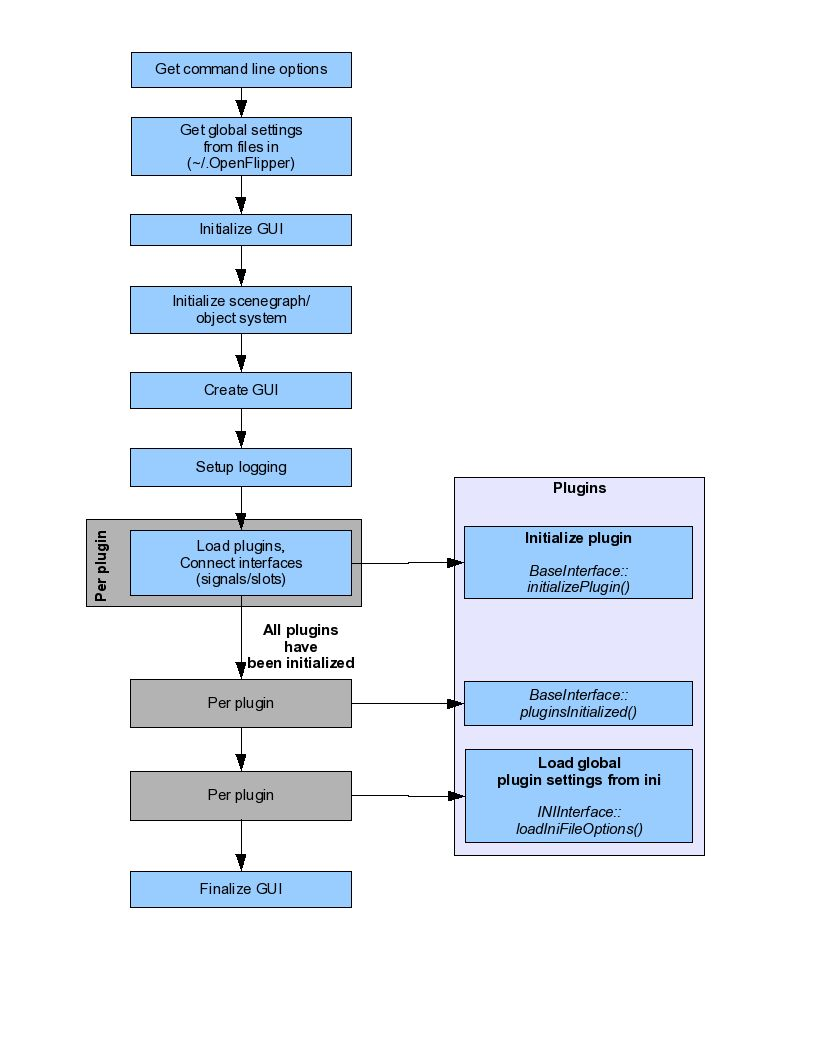
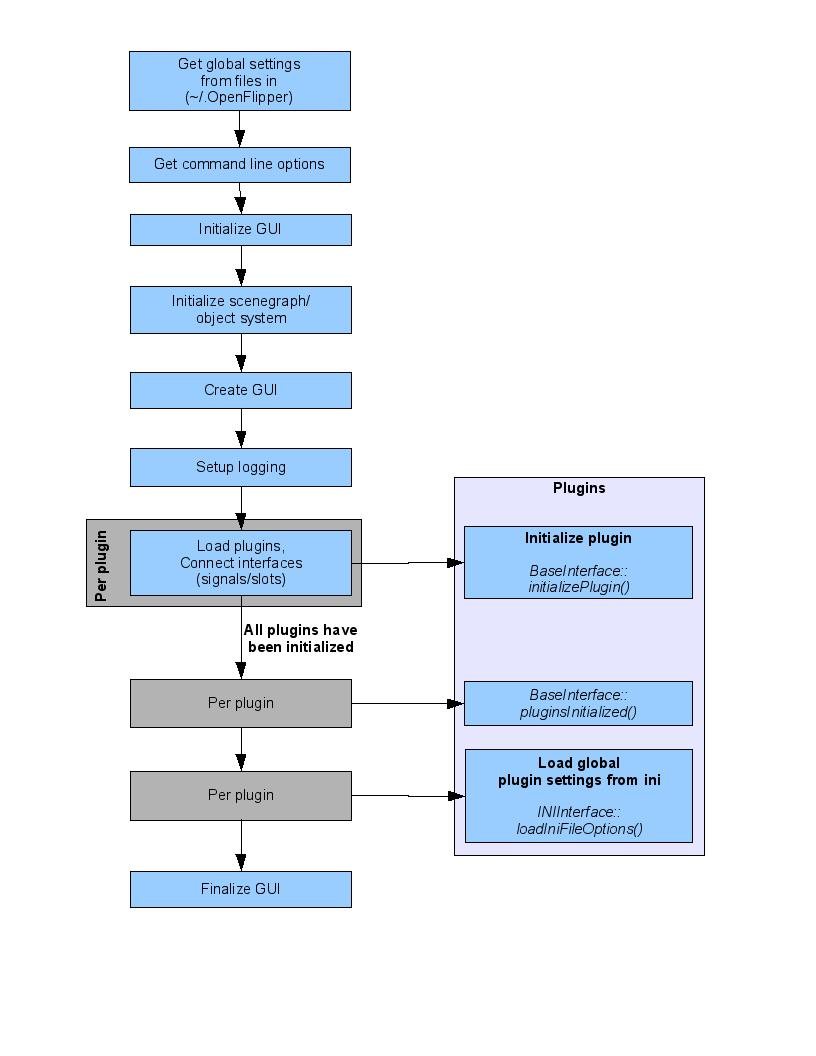
improved ini loading

diff --git a/OpenFlipper/Core/ParseIni.cc b/OpenFlipper/Core/ParseIni.cc
@@ -271,6 +271,46 @@ void Core::readApplicationOptions(INIFile& _ini) {
       OpenFlipper::Options::pickingRenderMode(pickingRenderMode);
 
     //============================================================================
+    // ViewerProperties
+    //============================================================================
+
+    bool multiView = false;
+    if( _ini.get_entry(multiView, "Options", "MultiView") )
+      OpenFlipper::Options::multiView(multiView);
+
+    uint viewerCount = 0;
+    if( _ini.get_entry(viewerCount, "Options", "ViewerCount") ){
+    }
+
+    if ( _ini.section_exists("ViewerProperties") ){
+      for ( unsigned int i = 0 ; i < viewerCount; ++i ) {
+  
+        if (OpenFlipper::Options::examinerWidgets() < i)
+          break;
+  
+        // Load the animation setting
+        bool animation = false;
+        if ( _ini.get_entry( animation, "ViewerProperties" , "Animation" + QString::number(i) ) )
+          PluginFunctions::viewerProperties(i).animation(animation);
+  
+        // Load the twoSidedLighting setting
+        bool twoSidedLighting = false;
+        if ( _ini.get_entry( twoSidedLighting, "ViewerProperties" , "TwoSidedLighting" + QString::number(i)) )
+          PluginFunctions::viewerProperties(i).twoSidedLighting(twoSidedLighting);
+  
+        // Load the backface culling setting
+        bool backface_culling = false;
+        if ( _ini.get_entry( backface_culling, "ViewerProperties" , "BackfaceCulling" + QString::number(i)) )
+          PluginFunctions::viewerProperties(i).backFaceCulling(backface_culling);
+  
+        // Load the setting for the background color option
+        uint viewerBackground = 0;
+        if ( _ini.get_entry( viewerBackground, "ViewerProperties" , "BackgroundColor" + QString::number(i)) )
+          PluginFunctions::viewerProperties(i).backgroundColor( QRgb(viewerBackground) );
+      }
+    }
+
+    //============================================================================
     // Update information
     //============================================================================
     QString updateUrl = "";
@@ -284,57 +324,6 @@ void Core::readApplicationOptions(INIFile& _ini) {
     QString updatePassword = "";
     if( _ini.get_entry(updatePassword, "Options", "UpdatePassword") )
       OpenFlipper::Options::updatePassword(updatePassword);
-  }
-}
-
-/// Read Options that needs the GUI to be set up completely
-void Core::readGUIOptions(INIFile& _ini) {
-
-  if ( !OpenFlipper::Options::gui() )
-    return;
-
-  uint viewerCount = 0;
-
-  if ( _ini.section_exists("Options") ) {
-
-    //============================================================================
-    // ViewerProperties
-    //============================================================================
-
-    bool multiView = false;
-    if( _ini.get_entry(multiView, "Options", "MultiView") )
-      OpenFlipper::Options::multiView(multiView);
-
-    if( _ini.get_entry(viewerCount, "Options", "ViewerCount") ){
-    }
-  }
-
-  if ( _ini.section_exists("ViewerProperties") ){
-    for ( unsigned int i = 0 ; i < viewerCount; ++i ) {
-
-      if (OpenFlipper::Options::examinerWidgets() < i)
-        break;
-
-      // Load the animation setting
-      bool animation = false;
-      if ( _ini.get_entry( animation, "ViewerProperties" , "Animation" + QString::number(i) ) )
-        PluginFunctions::viewerProperties(i).animation(animation);
-
-      // Load the twoSidedLighting setting
-      bool twoSidedLighting = false;
-      if ( _ini.get_entry( twoSidedLighting, "ViewerProperties" , "TwoSidedLighting" + QString::number(i)) )
-        PluginFunctions::viewerProperties(i).twoSidedLighting(twoSidedLighting);
-
-      // Load the backface culling setting
-      bool backface_culling = false;
-      if ( _ini.get_entry( backface_culling, "ViewerProperties" , "BackfaceCulling" + QString::number(i)) )
-        PluginFunctions::viewerProperties(i).backFaceCulling(backface_culling);
-
-      // Load the setting for the background color option
-      uint viewerBackground = 0;
-      if ( _ini.get_entry( viewerBackground, "ViewerProperties" , "BackgroundColor" + QString::number(i)) )
-        PluginFunctions::viewerProperties(i).backgroundColor( QRgb(viewerBackground) );
-    }
   }
 }
 
@@ -515,8 +504,6 @@ void Core::openIniFile( QString _filename,
   // Load Core settings only if requested
   if ( _coreSettings )
     readApplicationOptions(ini);
-
-  readGUIOptions(ini);
 
   // if requested load per Plugin settings from the settings file
   if ( _perPluginSettings )

diff --git a/OpenFlipper/OpenFlipper.cc b/OpenFlipper/OpenFlipper.cc
@@ -207,27 +207,10 @@ void segfaultHandling (int) {
   std::abort();
 }
 
-int main(int argc, char **argv)
-{
-  OpenFlipper::Options::argc(&argc);
-  OpenFlipper::Options::argv(&argv);
+bool openPolyMeshes = false;
+bool remoteControl  = false;
 
-// Only Install signal handler if not running in debug version, otherwise gdb will get confused
-// #ifndef DEBUG
-  // Set a handler for segfaults
-  std::signal(SIGSEGV, segfaultHandling);
-// #endif
-
-  OpenFlipper::Options::windowTitle("OpenFlipper v" + OpenFlipper::Options::coreVersion());
-
-  //======================================================
-  // Parse command line Options
-  //======================================================
-  bool openPolyMeshes = false;
-
-  bool remoteControl  = false;
-
-  CSimpleOpt args(argc, argv, g_rgOptions);
+bool parseCommandLineOptions(CSimpleOpt& args){
 
   // while there are arguments left to process
   while (args.Next()) {
@@ -270,9 +253,26 @@ int main(int argc, char **argv)
     } else {
       std::cerr << "Invalid argument: " << args.OptionText() << std::endl;
       showHelp();
-      return 1;
+      return false;
     }
   }
+  return true;
+}
+
+int main(int argc, char **argv)
+{
+  OpenFlipper::Options::argc(&argc);
+  OpenFlipper::Options::argv(&argv);
+
+  CSimpleOpt args(argc, argv, g_rgOptions);
+
+// Only Install signal handler if not running in debug version, otherwise gdb will get confused
+// #ifndef DEBUG
+  // Set a handler for segfaults
+  std::signal(SIGSEGV, segfaultHandling);
+// #endif
+
+  OpenFlipper::Options::windowTitle("OpenFlipper v" + OpenFlipper::Options::coreVersion());
 
   if ( !OpenFlipper::Options::nogui() ) {
 
@@ -289,6 +289,9 @@ int main(int argc, char **argv)
 
     // create core ( this also reads the ini files )
     Core * w = new Core( );
+
+    if ( !parseCommandLineOptions(args) )
+      return 1;
 
     // After setting all Options from command line, build the real gui
     w->init();
@@ -311,6 +314,9 @@ int main(int argc, char **argv)
 
     // create widget ( this also reads the ini files )
     Core * w = new Core( );
+
+    if ( !parseCommandLineOptions(args) )
+      return 1;
 
     // After setting all Options from command line, build the real gui
     w->init();

diff --git a/OpenFlipper/BasePlugin/PluginFunctions.cc b/OpenFlipper/BasePlugin/PluginFunctions.cc
@@ -57,6 +57,12 @@ static BaseObject* objectRoot_;
  */
 static std::vector< glViewer* > examiner_widgets_;
 
+/** \brief DONT USE DIRECTLY!!
+ *
+ * This vector is used internally to access properties of all viewers
+ */
+static std::vector< Viewer::ViewerProperties* > viewerProperties_;
+
 /// TODO : Remove this variable and implement multiView correctly here
 static glViewer*  examiner_widget_;
 
@@ -79,6 +85,10 @@ void setDataRoot( BaseObject* _root ) {
 void setViewers( std::vector< glViewer* > _examiner_widgets ) {
    PluginFunctions::examiner_widgets_ = _examiner_widgets;
    PluginFunctions::examiner_widget_ =  examiner_widgets_[0];
+}
+
+void setViewerProperties( std::vector< Viewer::ViewerProperties* > _viewerProperties ) {
+   PluginFunctions::viewerProperties_ = _viewerProperties;
 }
 
 void setActiveExaminer( const unsigned int _id ) {
@@ -361,7 +371,7 @@ Viewer::ActionMode actionMode() {
 }
 
 Viewer::ViewerProperties& viewerProperties(int _id) {
-  if ( _id >= (int)examiner_widgets_.size() ) {
+  if ( _id >= (int)viewerProperties_.size() ) {
     std::cerr << " Error, requested properties for non-existing Viewer!" << std::endl;
     return dummyProperties;
   }
@@ -369,7 +379,7 @@ Viewer::ViewerProperties& viewerProperties(int _id) {
   if ( _id == -1 )
     _id = activeExaminer_;
 
-  return (*examiner_widgets_[_id]->properties());
+  return ( *viewerProperties_[_id] );
 
 }
 

diff --git a/OpenFlipper/widgets/glWidget/QtBaseViewer.cc b/OpenFlipper/widgets/glWidget/QtBaseViewer.cc
@@ -115,6 +115,7 @@ static const char          VIEW_MAGIC[] =
 
 glViewer::glViewer( QtGLGraphicsScene* _scene,
 		    QGLWidget* _glWidget,
+        Viewer::ViewerProperties& _properties,
 		    QGraphicsWidget* _parent,
 		    const char* /* _name */ ,
 		    QStatusBar *_statusBar) :
@@ -127,6 +128,7 @@ glViewer::glViewer( QtGLGraphicsScene* _scene,
   glWidget_(_glWidget),
   pick_mode_name_(""),
   pick_mode_idx_(-1),
+  properties_(_properties),
   glstate_(0)
 {
 
@@ -190,6 +192,9 @@ glViewer::glViewer( QtGLGraphicsScene* _scene,
   connect( &properties_,SIGNAL(actionModeChanged(Viewer::ActionMode)), this, SLOT( updateActionMode(Viewer::ActionMode) ) );
 
   properties_.setExamineMode();
+
+  //check for updated properties once
+  slotPropertiesUpdated();
 
   setAcceptDrops(true);
 }
@@ -1991,6 +1996,9 @@ void glViewer::slotAnimation()
 }
 
 void glViewer::applyProperties() {
+
+  glstate_->set_twosided_lighting( properties_.twoSidedLighting() );
+
   glstate_->set_clear_color( properties_.backgroundColor() );
 
   if (properties_.isCCWFront() )

diff --git a/OpenFlipper/widgets/coreWidget/CoreWidget.cc b/OpenFlipper/widgets/coreWidget/CoreWidget.cc
@@ -164,6 +164,7 @@ CoreWidget( QVector<ViewMode*>& _viewModes,
 
     glViewer* examinerWidget = new glViewer(glScene_,
 					    glWidget_,
+              PluginFunctions::viewerProperties(0),
 					    centerWidget_,
                                             "Examiner Widget",
                                             statusBar_);
@@ -181,9 +182,11 @@ CoreWidget( QVector<ViewMode*>& _viewModes,
     for ( unsigned int i = 0 ; i < OpenFlipper::Options::examinerWidgets() ; ++i ) {
       glViewer* newWidget = new glViewer(glScene_,
 					 glWidget_,
+           PluginFunctions::viewerProperties(i),
 					 centerWidget_,
 					 "Examiner Widget",
-                                         statusBar_ );
+           statusBar_);
+
       examiner_widgets_.push_back(newWidget);
     }
 

diff --git a/OpenFlipper/Core/Core.cc b/OpenFlipper/Core/Core.cc
@@ -123,6 +123,14 @@ Core() :
 
   viewModes_.push_front(vm);
 
+  //init ViewerProperties (always for 4 Viewers!)
+  std::vector< Viewer::ViewerProperties* > viewerProperties;
+
+  for (int i=0; i < 4; i++)
+    viewerProperties.push_back( new Viewer::ViewerProperties() );
+
+  PluginFunctions::setViewerProperties(viewerProperties);
+
   // Get all relevant Paths and Options from option files
   setupOptions();
 
